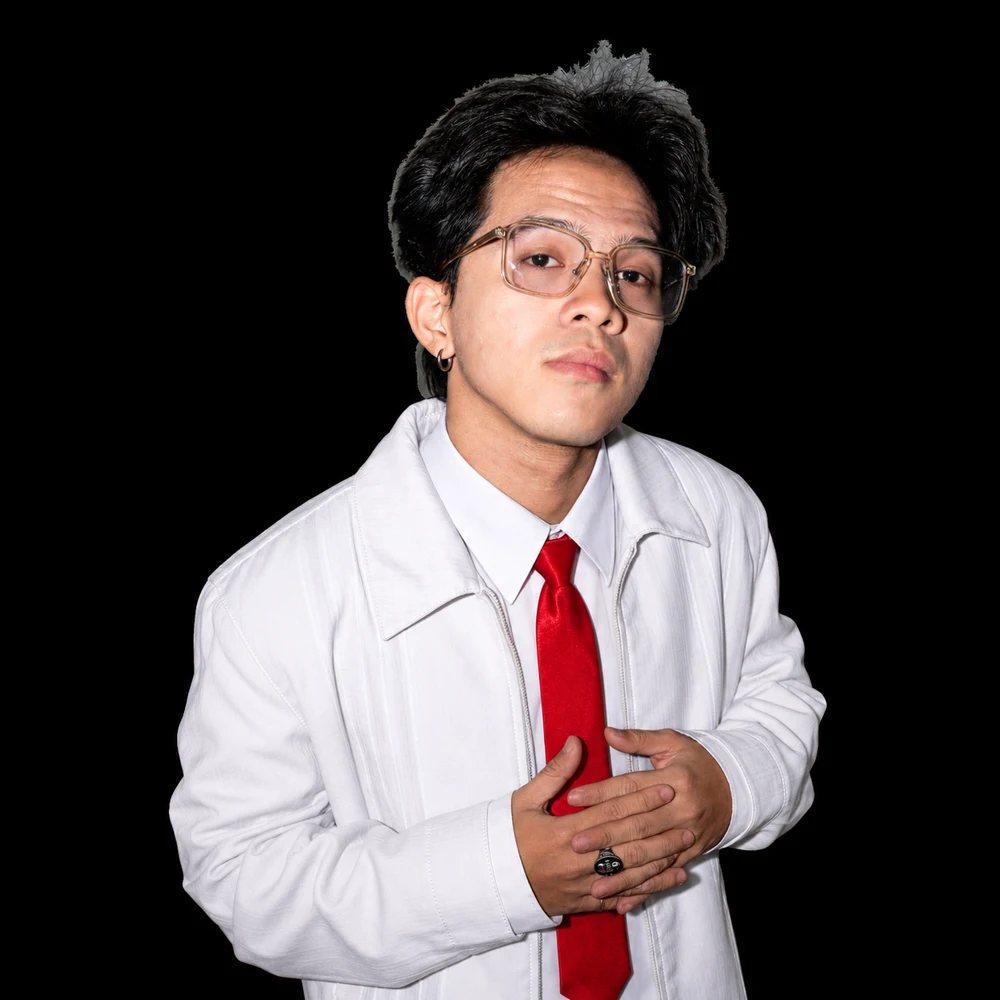
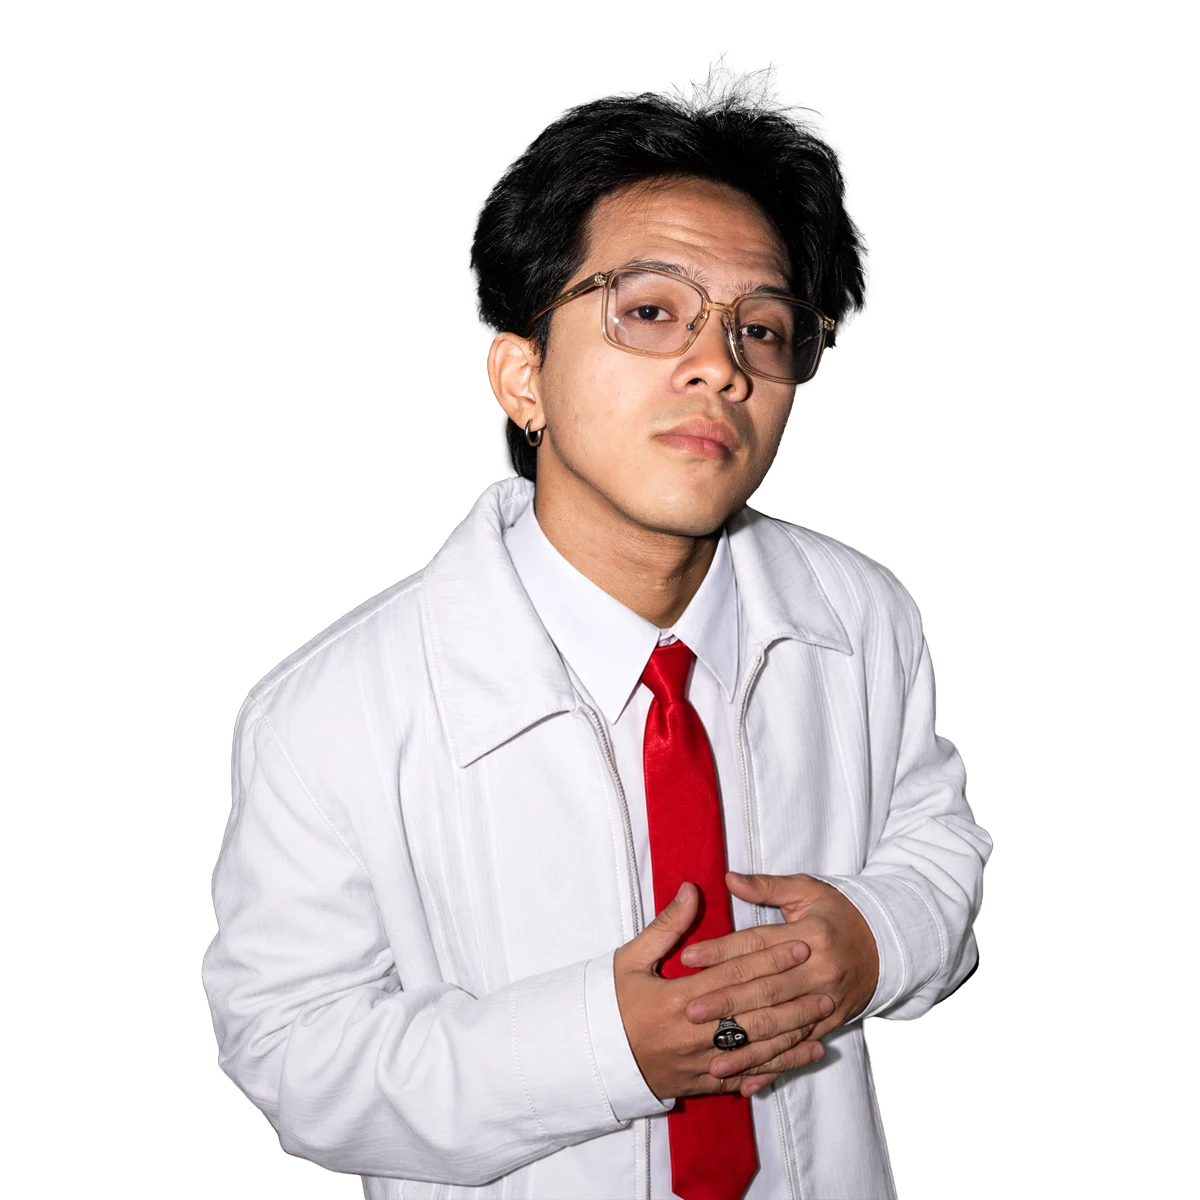
About Me: Who I am + journey left, education + strengths right, bigger cutout photo, oldest-first lists; Favourite games section

diff --git a/src/components/AboutMe.jsx b/src/components/AboutMe.jsx
@@ -9,13 +9,23 @@ import { isPlaceholder, resolveAuto, shouldShow, shouldShowItem, isDraft } from 
 
 /* =====================================================================
    The About Me blocks, each one a dark panel:
-     <Intro />        one poster-like panel: the journey (work + school) on
+     <Intro />        one poster-like panel: who I am and the work journey on
                       the left, you in the shallows with your name large
-                      behind you in the middle, strengths and who you are
-                      on the right. On phones the columns stack, photo first.
+                      behind you in the middle, education and strengths on
+                      the right. Lists run oldest → latest. Phones stack, photo first.
      <Services />     what I do (confirmed items only in production)
      <Highlights />   big numbers + notable contributions
    ===================================================================== */
+
+/** A small inset panel with a red-marked beige eyebrow. */
+function Panel({ label, className = '', children }) {
+  return (
+    <div className={`px-card p-5 sm:p-6 ${className}`}>
+      <p className="eyebrow flex items-center gap-3 text-beige"><span className="inline-block h-2 w-2 bg-red" />{label}</p>
+      {children}
+    </div>
+  )
+}
 
 /** Who you are, on one screen. */
 export function Intro() {
@@ -32,9 +42,24 @@ export function Intro() {
     <Reveal>
       <article className="px-card overflow-hidden p-5 sm:p-8 lg:p-10 xl:p-12">
         <div className="grid grid-cols-1 gap-8 lg:grid-cols-12 lg:gap-8 xl:gap-10">
-          {/* ---- left: the journey ---- */}
-          <div className="lg:col-span-4 xl:col-span-3">
-            <Journey timeline={background.timeline} education={background.education} />
+          {/* ---- left: who I am, then the journey ---- */}
+          <div className="flex flex-col gap-6 lg:col-span-4 xl:col-span-3">
+            <Panel label="Who I am">
+              <h2 className="mt-4 font-display text-3xl leading-[0.95] tracking-tight text-balance">{intro.headline}</h2>
+              <dl className="mt-4 space-y-1">
+                {intro.facts.map((f) => (
+                  <div key={f.label} className="flex items-baseline gap-2 font-pixel text-[12px] tracking-[0.06em] uppercase">
+                    <dt className="text-dim">{f.label}</dt>
+                    <dd className="text-beige">{f.value}</dd>
+                  </div>
+                ))}
+              </dl>
+              <div className="mt-4 space-y-3 text-sm leading-relaxed text-ink-2">
+                {paragraphs.map((p, i) => <Txt key={i} as="p" value={p} className={i === 0 ? 'text-ink' : ''} />)}
+                {statementParas.map((p, i) => <Txt key={`s${i}`} as="p" value={p} />)}
+              </div>
+            </Panel>
+            <Journey items={background.timeline} />
           </div>
 
           {/* ---- centre: you, with your name behind you ---- */}
@@ -42,10 +67,10 @@ export function Intro() {
             <div aria-hidden className="pointer-events-none absolute inset-x-0 top-0 select-none text-center">
               <p className="font-pixel text-[13px] tracking-[0.6em] text-ink-2 uppercase sm:text-[15px]">{first}</p>
               <p className="font-display leading-[0.85] tracking-tight text-white/[0.08] uppercase" style={{ fontSize: 'clamp(56px, 27cqw, 170px)' }}>{last}</p>
-              <p className="font-pixel text-[12px] tracking-[0.3em] text-red uppercase sm:text-[13px]">{title}</p>
+              <p className="hidden font-pixel text-[13px] tracking-[0.3em] text-red uppercase xl:block">{title}</p>
             </div>
 
-            <div className="relative mx-auto mt-[22%] max-w-[420px] sm:mt-[18%] lg:mt-[26%]">
+            <div className="relative mx-auto mt-[16%] max-w-[640px] lg:mt-[20%] xl:mt-[25%]">
               <div aria-hidden className="pointer-events-none absolute inset-0 overflow-hidden rounded-xl">
                 {/* light from above */}
                 <span className="ray" style={{ left: '18%', width: '22%', transform: 'skewX(-14deg)', '--delay': '0s', animation: reduce ? 'none' : undefined }} />
@@ -60,13 +85,13 @@ export function Intro() {
               </div>
               <div className="relative">
                 {intro.photo && (
-                  <img src={intro.photo} alt={intro.photoAlt ?? name} width="1000" height="1000" className="relative z-10 mx-auto block w-[82%]" fetchPriority="high" />
+                  <img src={intro.photo} alt={intro.photoAlt ?? name} width="1200" height="1200" className="relative z-10 mx-auto block w-full" fetchPriority="high" />
                 )}
                 {/* the sand you stand on, with plants in front */}
-                <PixelSprite name="ledge" className="relative z-20 -mt-[13%] block w-full" />
-                <PixelSprite name="kelp" className="sway absolute bottom-[6%] left-[5%] z-30 w-6 sm:w-7" style={{ animation: reduce ? 'none' : undefined }} />
-                <PixelSprite name="seaweed" className="sway absolute bottom-[6%] right-[6%] z-30 w-8 sm:w-10" style={{ '--delay': '-3s', animation: reduce ? 'none' : undefined }} />
-                <PixelSprite name="spire" className="absolute bottom-[5%] left-[-2%] z-[5] w-12 opacity-80 sm:w-14" />
+                <PixelSprite name="ledge" className="relative z-20 -mt-[11%] block w-full" />
+                <PixelSprite name="kelp" className="sway absolute bottom-[6%] left-[5%] z-30 w-6 sm:w-8" style={{ animation: reduce ? 'none' : undefined }} />
+                <PixelSprite name="seaweed" className="sway absolute bottom-[6%] right-[6%] z-30 w-8 sm:w-12" style={{ '--delay': '-3s', animation: reduce ? 'none' : undefined }} />
+                <PixelSprite name="spire" className="absolute bottom-[5%] left-[-2%] z-[5] w-12 opacity-80 sm:w-16" />
               </div>
             </div>
 
@@ -76,11 +101,11 @@ export function Intro() {
             </div>
           </div>
 
-          {/* ---- right: strengths, then who you are ---- */}
+          {/* ---- right: education, then strengths ---- */}
           <div className="flex flex-col gap-6 lg:col-span-4 xl:col-span-3">
+            <Education items={background.education} />
             {strengths.length > 0 && (
-              <div className="px-card p-5 sm:p-6">
-                <p className="eyebrow flex items-center gap-3 text-beige"><span className="inline-block h-2 w-2 bg-red" />Strengths</p>
+              <Panel label="Strengths" className="flex-1">
                 <ul className="mt-4 space-y-2.5">
                   {strengths.map((s, i) => (
                     <li key={i} className="flex gap-3 text-sm leading-snug">
@@ -89,25 +114,8 @@ export function Intro() {
                     </li>
                   ))}
                 </ul>
-              </div>
+              </Panel>
             )}
-
-            <div className="px-card flex-1 p-5 sm:p-6">
-              <p className="eyebrow flex items-center gap-3 text-beige"><span className="inline-block h-2 w-2 bg-red" />Who I am</p>
-              <h2 className="mt-4 font-display text-3xl leading-[0.95] tracking-tight text-balance">{intro.headline}</h2>
-              <dl className="mt-4 space-y-1">
-                {intro.facts.map((f) => (
-                  <div key={f.label} className="flex items-baseline gap-2 font-pixel text-[12px] tracking-[0.06em] uppercase">
-                    <dt className="text-dim">{f.label}</dt>
-                    <dd className="text-beige">{f.value}</dd>
-                  </div>
-                ))}
-              </dl>
-              <div className="mt-4 space-y-3 text-sm leading-relaxed text-ink-2">
-                {paragraphs.map((p, i) => <Txt key={i} as="p" value={p} className={i === 0 ? 'text-ink' : ''} />)}
-                {statementParas.map((p, i) => <Txt key={`s${i}`} as="p" value={p} />)}
-              </div>
-            </div>
           </div>
         </div>
       </article>
@@ -115,42 +123,49 @@ export function Intro() {
   )
 }
 
-/** Work, newest first, then school. Pixel nodes down a line. */
-function Journey({ timeline = [], education = [] }) {
-  const work = timeline.filter((t) => shouldShow(t.title) || shouldShow(t.place) || shouldShow(t.note))
-  const school = education.filter((e) => shouldShow(e.school))
-  if (!work.length && !school.length) return null
+/** A pixel node on the timeline's line. The latest entry (last) is red. */
+function Node({ latest }) {
+  return <span className={`absolute -left-[27px] top-1 h-3 w-3 ${latest ? 'bg-red' : 'bg-purple'}`} style={{ boxShadow: '0 0 0 2px var(--color-deep)' }} />
+}
+
+/** Work, oldest at the top, latest at the bottom. */
+function Journey({ items = [] }) {
+  const work = items.filter((t) => shouldShow(t.title) || shouldShow(t.place) || shouldShow(t.note))
+  if (!work.length) return null
   return (
-    <div className="px-card h-full p-5 sm:p-6">
-      <p className="eyebrow flex items-center gap-3 text-beige"><span className="inline-block h-2 w-2 bg-red" />My journey</p>
+    <Panel label="My journey" className="flex-1">
       <ol className="relative mt-5 space-y-5 border-l-2 border-line pl-5">
         {work.map((t, i) => (
           <li key={i} className="relative">
-            <span className={`absolute -left-[27px] top-1 h-3 w-3 ${i === 0 ? 'bg-red' : 'bg-purple'}`} style={{ boxShadow: '0 0 0 2px var(--color-deep)' }} />
+            <Node latest={i === work.length - 1} />
             <Txt as="p" value={t.title} className="text-sm font-medium leading-tight" />
             <Txt as="p" value={t.place} className="mt-0.5 text-xs leading-snug text-ink-2" />
             <Txt as="p" value={t.period} className="mt-1 font-pixel text-[11px] tracking-[0.08em] text-dim uppercase" />
           </li>
         ))}
       </ol>
+    </Panel>
+  )
+}
 
-      {school.length > 0 && (
-        <>
-          <p className="mt-8 font-pixel text-[12px] tracking-[0.08em] text-dim uppercase">Education</p>
-          <ol className="relative mt-4 space-y-4 border-l-2 border-line pl-5">
-            {school.map((e, i) => (
-              <li key={i} className="relative">
-                <span className="absolute -left-[27px] top-1 h-3 w-3 bg-purple" style={{ boxShadow: '0 0 0 2px var(--color-deep)' }} />
-                <p className="font-pixel text-[11px] tracking-[0.08em] text-dim uppercase">{e.level}</p>
-                <Txt as="p" value={e.school} className="mt-0.5 text-sm font-medium leading-tight" />
-                {e.course && <Txt as="p" value={e.course} className="mt-0.5 text-xs leading-snug text-ink-2 italic" />}
-                <Txt as="p" value={e.period} className={`mt-1 font-pixel text-[11px] tracking-[0.08em] uppercase ${/graduat/i.test(e.period) ? 'text-beige' : 'text-dim'}`} />
-              </li>
-            ))}
-          </ol>
-        </>
-      )}
-    </div>
+/** School, oldest at the top, latest at the bottom. */
+function Education({ items = [] }) {
+  const school = items.filter((e) => shouldShow(e.school))
+  if (!school.length) return null
+  return (
+    <Panel label="Education">
+      <ol className="relative mt-5 space-y-4 border-l-2 border-line pl-5">
+        {school.map((e, i) => (
+          <li key={i} className="relative">
+            <Node latest={i === school.length - 1} />
+            <p className="font-pixel text-[11px] tracking-[0.08em] text-dim uppercase">{e.level}</p>
+            <Txt as="p" value={e.school} className="mt-0.5 text-sm font-medium leading-tight" />
+            {e.course && <Txt as="p" value={e.course} className="mt-0.5 text-xs leading-snug text-ink-2 italic" />}
+            <Txt as="p" value={e.period} className={`mt-1 font-pixel text-[11px] tracking-[0.08em] uppercase ${/graduat/i.test(e.period) ? 'text-beige' : 'text-dim'}`} />
+          </li>
+        ))}
+      </ol>
+    </Panel>
   )
 }
 

diff --git a/src/content/about.js b/src/content/about.js
@@ -24,17 +24,17 @@ export const ABOUT = {
       'Unity Developer at VIIBYTE on Rivalis Academia Nexus since 2023. I implemented all 21 in-game interfaces, from login to settings, and designed some of them myself.',
       'Developing games is my dream, so I taught myself Unity in college, starting with school projects.',
     ],
-    // Newest first. Only real entries; the rest stay as placeholders.
+    // Oldest first, so the latest sits at the bottom. Only real entries.
     timeline: [
-      { period: '2023 — Present', title: 'Unity Developer', place: 'VIIBYTE · Rivalis Academia Nexus', note: '21 in-game interfaces, Unity + C#. Implemented all, designed some.' },
       { period: '2021', title: 'Started with Unity', place: 'Self-taught, in college', note: 'School projects.' },
+      { period: '2023 — Present', title: 'Unity Developer', place: 'VIIBYTE · Rivalis Academia Nexus', note: '21 in-game interfaces, Unity + C#. Implemented all, designed some.' },
     ],
-    // Schooling, newest first. level · school · course (optional) · period
+    // Schooling, oldest first. level · school · course (optional) · period
     education: [
-      { level: 'Tertiary', school: 'Pambayang Dalubhasaan ng Marilao', course: 'Bachelor of Science in Information Technology', period: 'Graduate' },
-      { level: 'Secondary', school: 'St. Michael School of Marilao', course: 'Science, Technology, Engineering and Mathematics', period: '2013 — 2019' },
-      { level: 'Primary', school: 'Calvario Elementary School', period: '2009 — 2013' },
       { level: 'Primary', school: 'St. Mary’s College of Meycauayan', period: '2006 — 2009' },
+      { level: 'Primary', school: 'Calvario Elementary School', period: '2009 — 2013' },
+      { level: 'Secondary', school: 'St. Michael School of Marilao', course: 'Science, Technology, Engineering and Mathematics', period: '2013 — 2019' },
+      { level: 'Tertiary', school: 'Pambayang Dalubhasaan ng Marilao', course: 'Bachelor of Science in Information Technology', period: 'Graduate' },
     ],
     // Three short lines.
     strengths: [

diff --git a/src/components/FavouriteGames.jsx b/src/components/FavouriteGames.jsx
@@ -1,0 +1,44 @@
+import Reveal from './Reveal.jsx'
+import Txt from './Txt.jsx'
+import PixelIcon from './PixelIcon.jsx'
+import { GAMES } from '../content/games.js'
+import { isPlaceholder, shouldShow } from '../lib/content.js'
+
+/** The games listed in games.js that may be shown (placeholders only in local preview). */
+export const visibleGames = () => GAMES.filter((g) => shouldShow(g.title))
+
+/**
+ * Favourite games: one card per game, cover on top, title and a line on
+ * what you take from it below. Reads like a shelf.
+ */
+export default function FavouriteGames() {
+  const games = visibleGames()
+  if (!games.length) return null
+  return (
+    <div className="grid grid-cols-2 gap-4 sm:gap-5 md:grid-cols-3 xl:grid-cols-4">
+      {games.map((g, i) => (
+        <Reveal key={`${g.title}-${i}`} delay={Math.min(i * 0.05, 0.3)}>
+          <article className={`px-card px-card-lift h-full overflow-hidden ${isPlaceholder(g.title) ? 'placeholder-text' : ''}`}>
+            <div className="relative aspect-[3/4] overflow-hidden border-b border-line bg-white/[0.04]">
+              {g.cover ? (
+                <img src={g.cover} alt={g.title} loading="lazy" className="h-full w-full object-cover" />
+              ) : (
+                <div className="grid h-full w-full place-items-center">
+                  <PixelIcon name="controller" size={36} accent="#9fb4dc" />
+                </div>
+              )}
+            </div>
+            <div className="p-4 sm:p-5">
+              <h3 className="font-display text-2xl leading-tight tracking-tight">{g.title}</h3>
+              <Txt as="p" value={g.studio} className="mt-1 text-xs text-ink-2" />
+              <div className="mt-3 flex flex-wrap gap-1.5">
+                {[g.platform, g.genre].filter(shouldShow).map((c) => <Txt key={c} value={c} className="px-chip px-2 py-1 text-[11px]" />)}
+              </div>
+              <Txt as="p" value={g.note} className="mt-3 text-sm leading-relaxed text-ink-2" />
+            </div>
+          </article>
+        </Reveal>
+      ))}
+    </div>
+  )
+}

diff --git a/src/content/games.js b/src/content/games.js
@@ -1,0 +1,31 @@
+/**
+ * =====================================================================
+ *  FAVOURITE GAMES — the games you play and learn from
+ * =====================================================================
+ *  Shown right under About Me, so a client can see the games you know
+ *  well when they say "make it feel like X". Keep it to the ones you
+ *  really play. One line each on what you take from it is plenty.
+ *
+ *  Cover art goes in  public/media/games/  (any size; shown 3:4, cropped
+ *  to fit). Leave  cover: ''  for a plain card with the title.
+ *
+ *  Anything in [square brackets] is a placeholder: visible with a dashed
+ *  outline in local preview, HIDDEN on the published site. The whole
+ *  section stays hidden until at least one real game is listed.
+ *
+ *  {
+ *    title: 'Game title',
+ *    studio: 'Who made it',              // optional
+ *    platform: 'Mobile',                 // optional: Mobile · PC · Console · Switch …
+ *    genre: 'MMORPG',                    // optional
+ *    note: 'What I take from it.',       // optional, one line
+ *    cover: '/media/games/game-title.jpg',
+ *  }
+ * ===================================================================== */
+
+export const GAMES = [
+  { title: '[Game title]', studio: '[Studio]', platform: '[Platform]', genre: '[Genre]', note: '[One line: what you take from it.]', cover: '' },
+  { title: '[Game title]', studio: '[Studio]', platform: '[Platform]', genre: '[Genre]', note: '[One line: what you take from it.]', cover: '' },
+  { title: '[Game title]', studio: '[Studio]', platform: '[Platform]', genre: '[Genre]', note: '[One line: what you take from it.]', cover: '' },
+  { title: '[Game title]', studio: '[Studio]', platform: '[Platform]', genre: '[Genre]', note: '[One line: what you take from it.]', cover: '' },
+]

diff --git a/src/pages/Home.jsx b/src/pages/Home.jsx
@@ -2,6 +2,7 @@ import Start from '../components/Start.jsx'
 import Zone from '../components/Zone.jsx'
 import Section from '../components/Section.jsx'
 import { Intro, Services, Highlights } from '../components/AboutMe.jsx'
+import FavouriteGames, { visibleGames } from '../components/FavouriteGames.jsx'
 import Skills from '../components/Skills.jsx'
 import FeaturedProject from '../components/FeaturedProject.jsx'
 import UIShowcase from '../components/UIShowcase.jsx'
@@ -38,6 +39,11 @@ export default function Home() {
         <Section id="about" meta={meta('about')}>
           <Intro />
         </Section>
+        {visibleGames().length > 0 && (
+          <Section id="games" meta={meta('games')} tight>
+            <FavouriteGames />
+          </Section>
+        )}
         <Section id="services" meta={meta('services')} tight>
           <Services />
           <div className="mt-6"><Highlights /></div>

diff --git a/src/content/sections.js b/src/content/sections.js
@@ -12,6 +12,7 @@
 export const SECTIONS = [
   { id: 'start', nav: 'Start' },
   { id: 'about', nav: 'About Me', zone: 'shallow', depth: '5 m', eyebrow: 'About me' },
+  { id: 'games', zone: 'shallow', depth: '20 m', eyebrow: 'Favourite games', heading: 'Games I keep coming back to' },
   { id: 'services', zone: 'shallow', depth: '40 m', eyebrow: 'What I do', heading: 'What I can build for you' },
   { id: 'skills', nav: 'Skills', zone: 'mid', depth: '200 m', eyebrow: 'Skills', heading: 'Tools & skills' },
   { id: 'projects', nav: 'Projects', zone: 'deep', depth: '1,000 m', eyebrow: 'Projects · flagship', heading: 'Rivalis Academia Nexus' },

diff --git a/README.md b/README.md
@@ -160,7 +160,8 @@ Everything about you is in two files:
 | --- | --- |
 | Wordmark on the Start screen, scroll hint | `profile.js` → `start` |
 | Full name, short name, title, headline and intro, photo, quick facts | `profile.js` → `name`, `shortName`, `title`, `intro` |
-| Background paragraphs, timeline, strengths | `about.js` → `background` |
+| Background paragraphs, work timeline, education, strengths (oldest first) | `about.js` → `background` |
+| Favourite games (hidden until one real game is listed) | `games.js` → `GAMES` |
 | What I do (service cards) | `about.js` → `services` — each has `confirmed: true/false` |
 | Tools & technologies (tiles in Skills) | `about.js` → `tools` — each has `confirmed: true/false` |
 | Professional highlights (big numbers) and notable contributions | `about.js` → `highlights`, `notable` |
